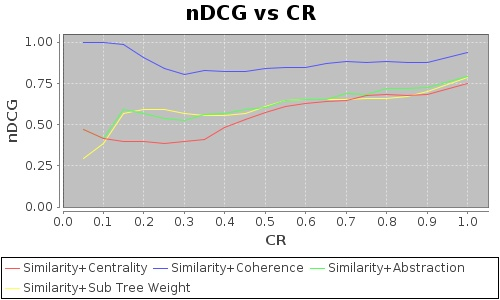
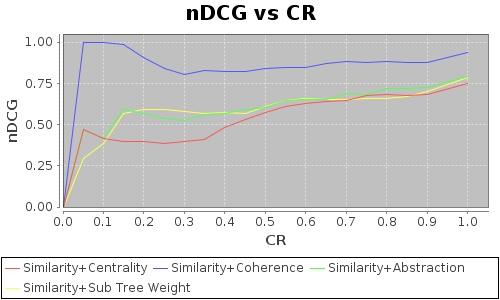
standard deviation added, divide by zero bug fixed in ndcg calculation

diff --git a/OntologySummarization/src/fr/inria/wimmics/explanation/evaluation/test/DCGSurveyInference1Test.java b/OntologySummarization/src/fr/inria/wimmics/explanation/evaluation/test/DCGSurveyInference1Test.java
@@ -39,6 +39,7 @@ import fr.inria.wimmics.explanation.evaluation.PrecisionRecall;
 import fr.inria.wimmics.explanation.evaluation.PrecisionRecallCalculator;
 
 import fr.inria.wimmics.explanation.evaluation.RankEntry;
+import fr.inria.wimmics.util.Statistics;
 
 
 public class DCGSurveyInference1Test {
@@ -328,7 +329,7 @@ public class DCGSurveyInference1Test {
 	public void testHumanAgreementQuestion1() {
 		List<List<RankEntry>> reList = surveyProcessor.getAllRankEntries(QUESTION1_NAME);
 		//en.printValues();
-		
+		List<Double> cosineSimValues = new ArrayList<Double>();
 		double totalCosine = 0.0;
 		int pairCount = 0;
 		for(int i=0;i<reList.size();i++) {
@@ -344,9 +345,9 @@ public class DCGSurveyInference1Test {
 				//printRankEntryList(reList.get(secondIndex));
 				
 				double cosineSim = CosineSimilarity.computeCosineSimilarity(reList.get(firstIndex), reList.get(secondIndex));
-				System.out.println("Cosine similarity: "+cosineSim);
+				//System.out.println("Cosine similarity: "+cosineSim);
 				totalCosine += cosineSim;
-				
+				cosineSimValues.add(cosineSim);
 			
 				//printRankEntryList(reList.get(firstIndex));
 				//printRankEntryList(reList.get(secondIndex));	
@@ -358,7 +359,11 @@ public class DCGSurveyInference1Test {
 		
 		double avgCosine = totalCosine/pairCount;
 		
+		
+		double stdDev = Statistics.standardDeviation(avgCosine, cosineSimValues);
+		
 		System.out.println("Avg cosine similarity:"+avgCosine);
+		System.out.println("Std dev:"+stdDev);
 
 	}
 	
@@ -370,7 +375,7 @@ public class DCGSurveyInference1Test {
 	public void testHumanAgreementQuestion2() {
 		List<List<RankEntry>> reList = surveyProcessor.getAllRankEntries(QUESTION2_NAME);
 		//en.printValues();
-		
+		List<Double> cosineSimValues = new ArrayList<Double>();
 		double totalCosine = 0.0;
 		int pairCount = 0;
 		for(int i=0;i<reList.size();i++) {
@@ -386,8 +391,9 @@ public class DCGSurveyInference1Test {
 				//printRankEntryList(reList.get(secondIndex));
 				
 				double cosineSim = CosineSimilarity.computeCosineSimilarity(reList.get(firstIndex), reList.get(secondIndex));
-				System.out.println("Cosine similarity: "+cosineSim);
+				//System.out.println("Cosine similarity: "+cosineSim);
 				totalCosine += cosineSim;
+				cosineSimValues.add(cosineSim);
 				
 			
 				//printRankEntryList(reList.get(firstIndex));
@@ -399,8 +405,11 @@ public class DCGSurveyInference1Test {
 		}
 		
 		double avgCosine = totalCosine/pairCount;
+		double stdDev = Statistics.standardDeviation(avgCosine, cosineSimValues);
 		
 		System.out.println("Avg cosine similarity (with concept similarity):"+avgCosine);
+		System.out.println("Std dev (with concept similarity):"+stdDev);
+		
 
 	}	
 	

diff --git a/OntologySummarization/src/fr/inria/wimmics/util/Statistics.java b/OntologySummarization/src/fr/inria/wimmics/util/Statistics.java
@@ -1,0 +1,25 @@
+package fr.inria.wimmics.util;
+
+import java.util.List;
+
+public class Statistics {
+
+	
+	public static double standardDeviation(double mean, double[] values) {
+		
+		double sum = 0.0;
+		for(int i=0;i<values.length;i++) {
+			sum += ((values[i]-mean)*(values[i]-mean));
+		}
+		return Math.sqrt(sum/values.length);
+	}
+	
+	public static double standardDeviation(double mean, List<Double> values) {
+		
+		double[] valuesArray = new double[values.size()];
+		for(int i=0;i<values.size();i++) {
+			valuesArray[i] = values.get(i);
+		}
+		return standardDeviation(mean, valuesArray);
+	}
+}

diff --git a/OntologySummarization/src/fr/inria/wimmics/explanation/evaluation/DCGMeasure.java b/OntologySummarization/src/fr/inria/wimmics/explanation/evaluation/DCGMeasure.java
@@ -129,6 +129,8 @@ public class DCGMeasure {
 		double dcg = computeDCG(list, p);
 		double idcg = computeIDCG(list, p);
 		
+		if(idcg==0.0) return 0.0;
+		
 		double ndcg = dcg/idcg;
 		
 		return ndcg;
